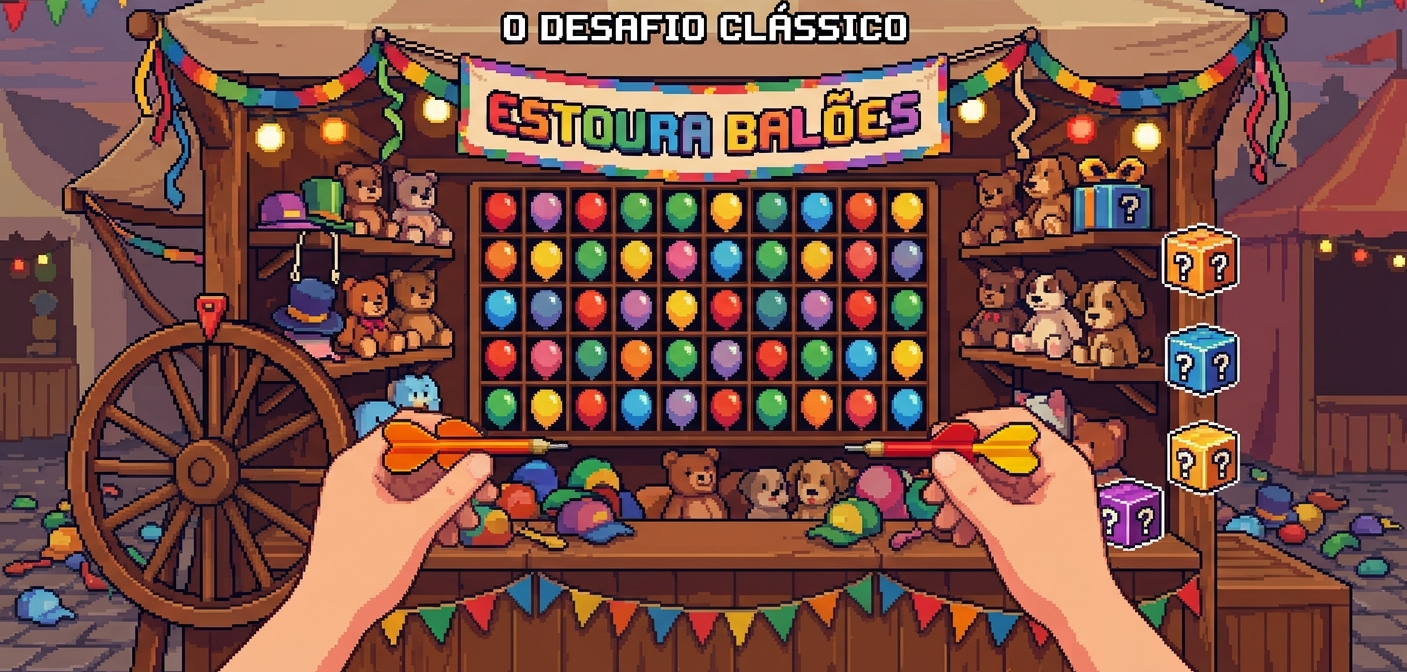
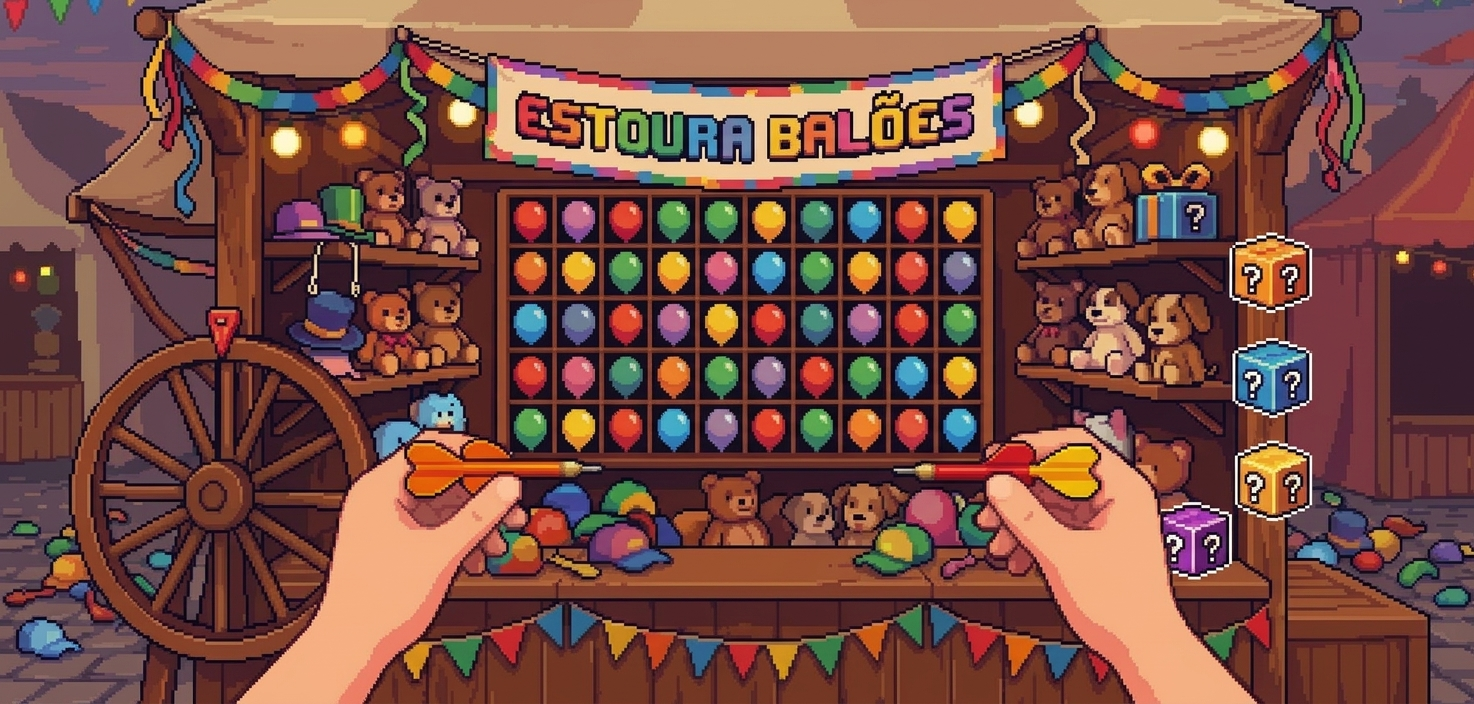
responsividade atualizada e melhorada

diff --git a/style.css b/style.css
@@ -73,38 +73,6 @@ body {
 
 
 /* ==========================================================================
-   3. MOLDURA DECORATIVA (topo/base, usada na tela inicial)
-   ========================================================================== */
-
-.moldura-topo,
-.moldura-baixo {
-  position: absolute;
-  left: 0;
-  z-index: 15;
-  width: 100%;
-  height: 60px;
-  background: repeating-linear-gradient(
-    45deg,
-    #6b3f1d,
-    #6b3f1d 20px,
-    #5a3216 20px,
-    #5a3216 40px
-  );
-  box-shadow: 0 0 10px rgba(0, 0, 0, 0.5);
-}
-
-.moldura-topo {
-  top: 0;
-  border-bottom: 4px solid #3d220c;
-}
-
-.moldura-baixo {
-  bottom: 0;
-  border-top: 4px solid #3d220c;
-}
-
-
-/* ==========================================================================
    4. TELA INICIAL
    ========================================================================== */
 
@@ -142,12 +110,56 @@ body {
    ========================================================================== */
 
 #tela-fim {
+  position: fixed;
+  inset: 0;
+  z-index: 10;
+  background-image: linear-gradient(rgba(0, 0, 0, 0.35), rgba(0, 0, 0, 0.35)), url('imagens/tela-fim-de-jogo.jpg');
+  background-size: cover;
+  background-position: center;
+  background-repeat: no-repeat;
+}
+
+/* Painel que agrupa os textos da tela final, com borda e paleta
+   iguais à da moldura de madeira (topo/baixo), pra ficar no mesmo
+   estilo visual do resto da tela. */
+.painel-fim {
   position: absolute;
-  padding: 30px;
-  background: rgba(255, 255, 255, 0.9);
-  border-radius: 12px;
-  box-shadow: 0 4px 10px rgba(0, 0, 0, 0.2);
+  top: 44%;
+  left: 50%;
+  transform: translate(-50%, -50%);
+  z-index: 11;
+  display: flex;
+  flex-direction: column;
+  align-items: center;
+  gap: 10px;
+  width: 85%;
+  max-width: 380px;
+  padding: 24px 32px;
+  background: rgba(61, 34, 12, 0.8);
+  border-radius: 14px;
+  box-shadow: 0 4px 10px rgba(0, 0, 0, 0.5);
+}
+
+.painel-fim h1 {
+  margin: 0;
+  color: #fff;
+  text-shadow: 0 2px 4px rgba(0, 0, 0, 0.8);
+}
+
+.painel-fim p {
+  margin: 0;
+  color: #fff;
   text-align: center;
+  text-shadow: 0 2px 4px rgba(0, 0, 0, 0.8);
+}
+
+/* O botão fica fora do painel, na mesma altura (68%) do
+   #btn-jogar da tela inicial. */
+#tela-fim #btn-reiniciar {
+  position: absolute;
+  top: 68%;
+  left: 50%;
+  transform: translate(-50%, -50%);
 }
 
 
@@ -198,8 +210,7 @@ button:active {
 }
 
 #recorde {
-  margin-top: -8px;
-  color: #555;
+  color: #eee;
   font-size: 15px;
 }
 
@@ -349,6 +360,14 @@ button:active {
    ========================================================================== */
 
 @media (max-width: 768px) {
+  #tela-inicial {
+    background-image: url('imagens/tela-inicial-cel.jpg');
+  }
+
+  #tela-fim {
+    background-image: linear-gradient(rgba(0, 0, 0, 0.35), rgba(0, 0, 0, 0.35)), url('imagens/tela-fim-cel.jpg');
+  }
+
   .balao {
     width: 45px;
     height: 60px;

diff --git a/index.html b/index.html
@@ -21,8 +21,6 @@
 
   <!-- Tela inicial -->
   <div id="tela-inicial">
-    <div class="moldura-topo"></div>
-    <div class="moldura-baixo"></div>
     <button id="btn-jogar">Começar</button>
     <p class="instrucao">Clique no botão acima para iniciar</p>
   </div>
@@ -39,10 +37,12 @@
 
   <!-- Tela de fim de jogo -->
   <div id="tela-fim" style="display:none;">
-    <h1>Fim de jogo!</h1>
-    <p id="resultado"></p>
-    <p id="recorde"></p>
-    <p id="novo-recorde" style="display:none;">🎉 Novo recorde! 🎉</p>
+    <div class="painel-fim">
+      <h1>Fim de jogo!</h1>
+      <p id="resultado"></p>
+      <p id="recorde"></p>
+      <p id="novo-recorde" style="display:none;">🎉 Novo recorde! 🎉</p>
+    </div>
     <button id="btn-reiniciar">Jogar novamente</button>
   </div>
 
